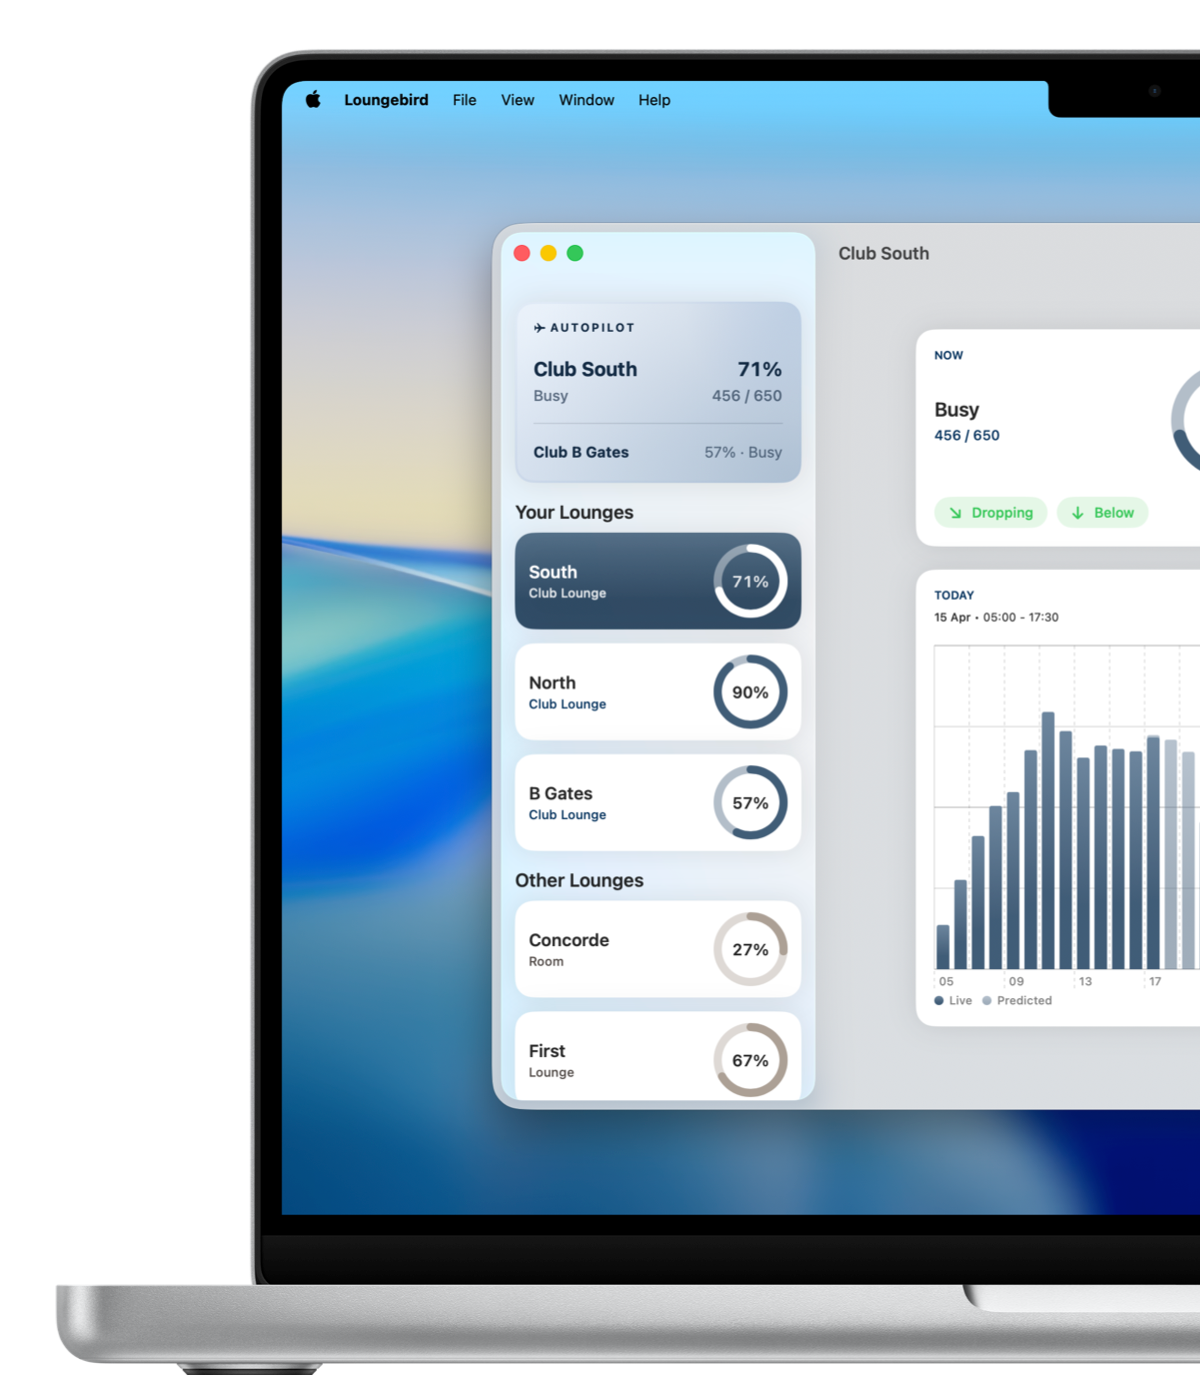
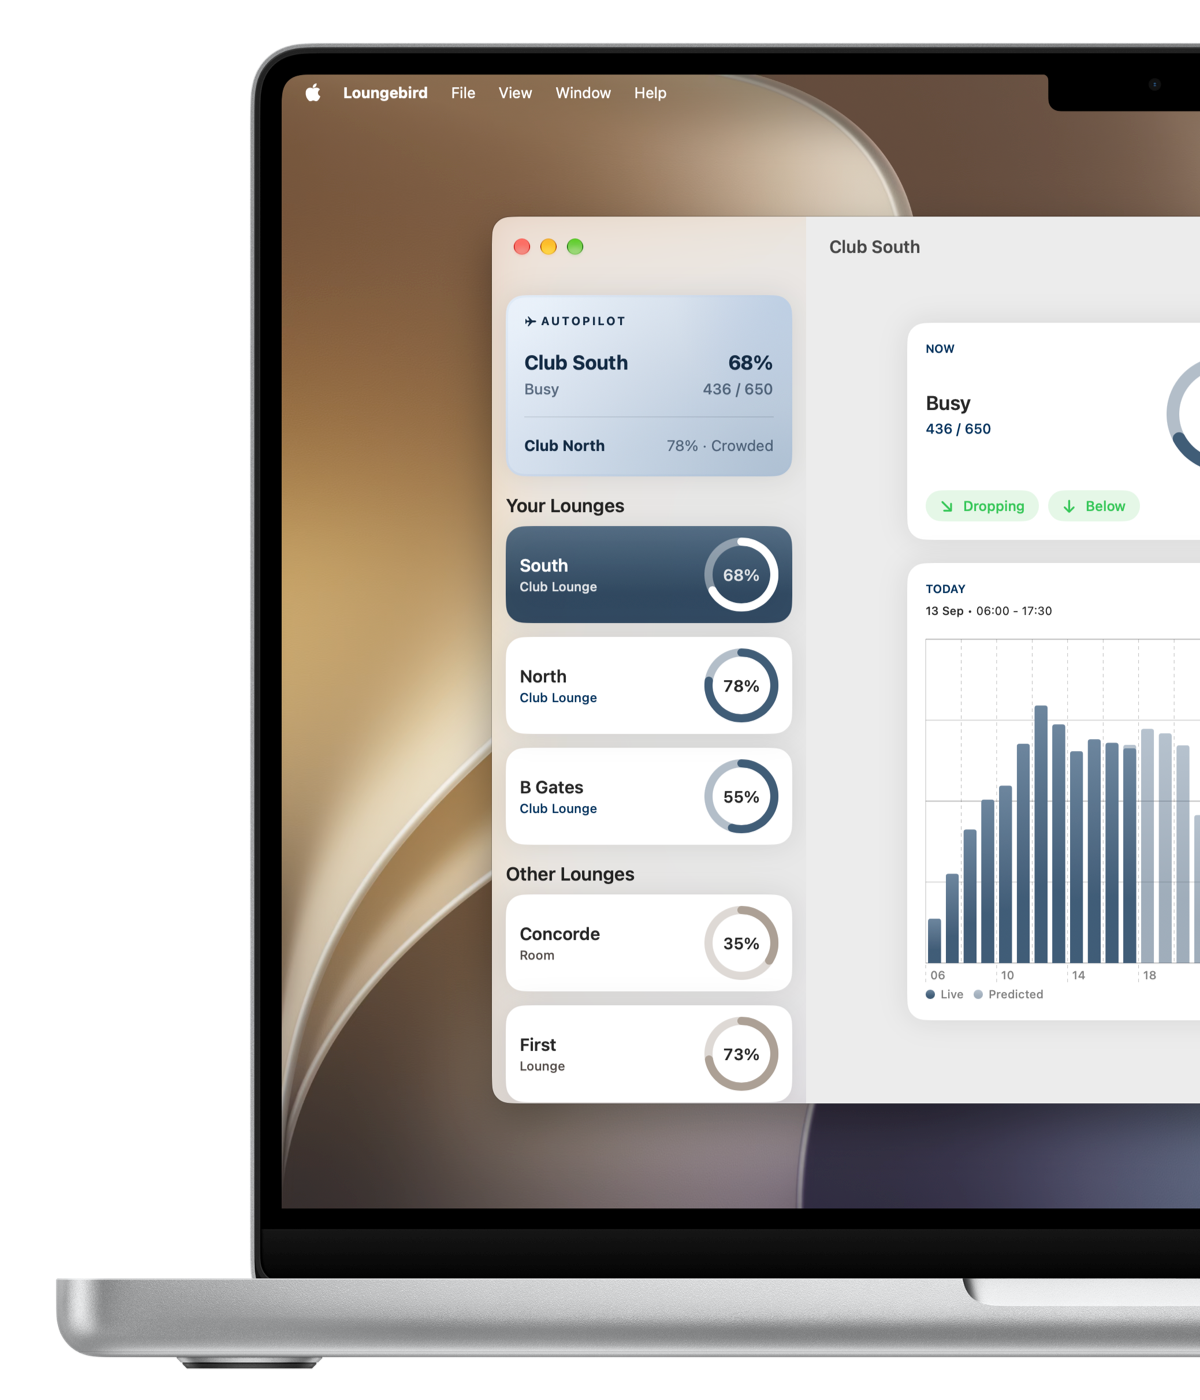
Update assets for iOS/macOS 27 (#58)
* Update widgets + devices images

* Update autopilot + occupancy intel images

* Update hero images

* Add iOS 27 theme

* Update remaining feature assets

* Update PressKit URL

diff --git a/src/components/BentoGrid.module.css b/src/components/BentoGrid.module.css
@@ -275,6 +275,53 @@
   opacity: 0.7;
 }
 
+/* iOS 27 Theme - mirrors the default iOS 27 system wallpaper's bronze/champagne swirl, light + dark */
+.themeIos27 {
+  position: relative;
+  overflow: hidden;
+  background:
+    radial-gradient(70% 55% at 92% 0%, rgba(255, 220, 180, 0.6) 0%, transparent 65%),
+    radial-gradient(90% 75% at 0% 100%, rgba(120, 88, 56, 0.35) 0%, transparent 70%),
+    linear-gradient(135deg, #f5ecdf 0%, #ddc6a4 50%, #a9835f 100%);
+}
+
+.themeIos27 .content {
+  position: relative;
+  z-index: 2;
+}
+
+.themeIos27 .imageWrapper {
+  position: relative;
+  z-index: 1;
+}
+
+.themeIos27 .title {
+  color: #3a2a1c;
+}
+
+.themeIos27 .description {
+  color: #5c4632;
+  opacity: 0.85;
+}
+
+@media (prefers-color-scheme: dark) {
+  .themeIos27 {
+    background:
+      radial-gradient(75% 60% at 88% 0%, rgba(96, 108, 160, 0.45) 0%, transparent 65%),
+      radial-gradient(70% 60% at 8% 100%, rgba(40, 96, 88, 0.32) 0%, transparent 70%),
+      linear-gradient(150deg, #11131e 0%, #1c2038 45%, #2b3050 100%);
+  }
+
+  .themeIos27 .title {
+    color: var(--color-text-white);
+  }
+
+  .themeIos27 .description {
+    color: #c3c8dc;
+    opacity: 0.85;
+  }
+}
+
 /* Steel Theme - light icy blue-steel, mirrors the occupancy chart palette */
 .themeSteel {
   background:

diff --git a/src/pages/press/Press.tsx b/src/pages/press/Press.tsx
@@ -40,7 +40,7 @@ export default function Press() {
           <h2>Press Kit</h2>
           <p>Featuring high-resolution screenshots and iconography.</p>
           <div className={styles.assetGrid}>
-            <a href="https://assets.loungebird.app/press/v3/presskit.zip" download className={styles.assetCard}>
+            <a href="https://assets.loungebird.app/press/v4/presskit.zip" download className={styles.assetCard}>
               <img src="/images/app-icon.png" alt="Loungebird app icon" className={styles.assetIcon} />
               <span className={styles.assetInfo}>
                 <span className={styles.assetName}>Press Kit</span>

diff --git a/src/pages/home/sections/Features.tsx b/src/pages/home/sections/Features.tsx
@@ -31,7 +31,7 @@ const featureItems: BentoItem[] = [
     image: "/images/features/occupancy-intel.webp",
     imageDark: "/images/features/occupancy-intel-dark.webp",
     size: "large",
-    theme: "insight",
+    theme: "ios26",
   },
   {
     title: "Cutting Edge",
@@ -54,7 +54,7 @@ const featureItems: BentoItem[] = [
     image: "/images/features/widgets.webp",
     imageDark: "/images/features/widgets-dark.webp",
     size: "large",
-    theme: "ios26",
+    theme: "ios27",
   },
   {
     title: "All your devices",

diff --git a/src/components/BentoGrid.tsx b/src/components/BentoGrid.tsx
@@ -9,7 +9,7 @@ export interface BentoItem {
   imageDark?: string;
   component?: ReactNode;
   size: "small" | "medium" | "large" | "wide" | "full";
-  theme?: "gold" | "night" | "ios26" | "spectrum" | "midnight" | "steel" | "autopilot" | "insight";
+  theme?: "gold" | "night" | "ios26" | "ios27" | "spectrum" | "midnight" | "steel" | "autopilot" | "insight";
   hideOnSingleColumn?: boolean;
 }
 
